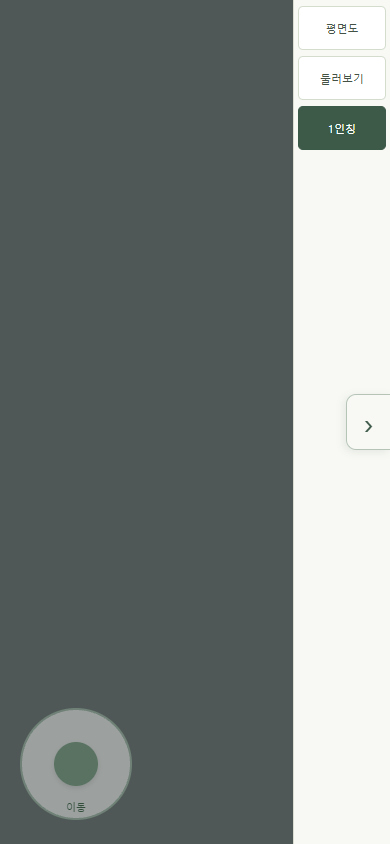
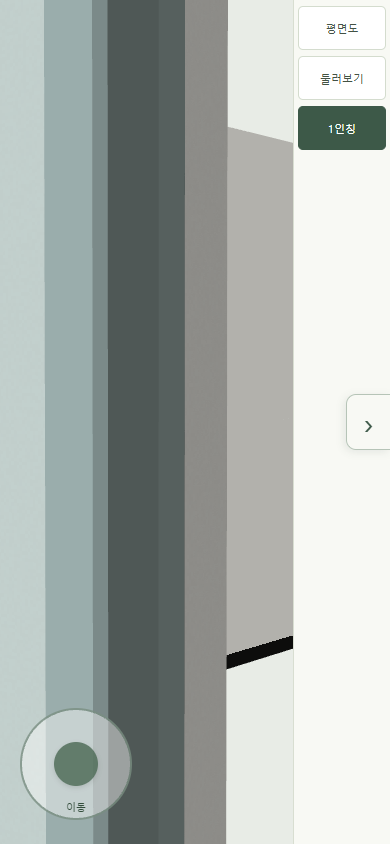
모바일 즉시이동 매커니즘 반영

diff --git a/mobile-controls.js b/mobile-controls.js
@@ -7,7 +7,7 @@ window.MuseumMobileControls=function(canvas,controls,options={}){
  let lastPointer=null;
  // 터치 지원은 패널 버튼용, 실제 입력 방식은 조이스틱용으로 따로 판단한다.
  const touchNavigation=()=>lastPointer==='touch'||(lastPointer===null&&primaryTouch.matches&&noHover.matches);
- let pair=null,stick=null,axes=[0,0],revision=controls.state.revision;
+ let pair=null,stick=null,tap=null,axes=[0,0],revision=controls.state.revision;
  const root=document.createElement('div');root.className='mobile-hud';root.innerHTML=`
   <div class="mobile-stick" role="group" aria-label="이동 조이스틱"><span class="stick-label">이동</span><span class="stick-knob"></span></div>
   `;
@@ -26,7 +26,7 @@ window.MuseumMobileControls=function(canvas,controls,options={}){
  }
  panelToggle.addEventListener('click',()=>{reset();controls.clear();panelClosed=!panelClosed;syncPanel();});
  const release=(target,id)=>{try{if(target.hasPointerCapture(id))target.releasePointerCapture(id);}catch{}};
- function reset(){for(const id of touches.keys())release(canvas,id);touches.clear();pair=null;if(stick!==null)release(joystick,stick);stick=null;axes=[0,0];knob.style.transform='translate(0px,0px)';}
+ function reset(){tap=null;for(const id of touches.keys())release(canvas,id);touches.clear();pair=null;if(stick!==null)release(joystick,stick);stick=null;axes=[0,0];knob.style.transform='translate(0px,0px)';}
  function sync(){document.body.classList.toggle('touch-navigation',touchNavigation());joystick.hidden=controls.state.mode!=='interior'||!touchNavigation();}
  function configure(){reset();document.body.classList.toggle('mobile-input',touchDevice());sync();syncPanel();}
  function usePointer(e){
@@ -42,11 +42,13 @@ window.MuseumMobileControls=function(canvas,controls,options={}){
   if(e.pointerType!=='touch'||touches.size>=2)return;
   e.preventDefault();if(revision!==controls.state.revision){reset();revision=controls.state.revision;}
   touches.set(e.pointerId,{x:e.clientX,y:e.clientY});canvas.setPointerCapture(e.pointerId);pair=snapshot();
+  tap=touches.size===1&&stick===null&&controls.state.mode==='interior'&&!controls.state.transitioning?{id:e.pointerId,x:e.clientX,y:e.clientY,time:performance.now()}:null;
  });
  canvas.addEventListener('pointermove',e=>{
   if(!touches.has(e.pointerId))return;e.preventDefault();
   if(revision!==controls.state.revision){reset();return;}
   const old=touches.get(e.pointerId),dx=e.clientX-old.x,dy=e.clientY-old.y;touches.set(e.pointerId,{x:e.clientX,y:e.clientY});
+  if(tap){if(Math.hypot(e.clientX-tap.x,e.clientY-tap.y)<=5)return;tap=null;}
   const unit=Math.PI/Math.max(1,canvas.clientHeight);
   if(controls.state.mode==='interior'){
    if(touches.size===1)controls.input.rotate(-dx*unit*.5,dy*unit*.5);
@@ -56,12 +58,12 @@ window.MuseumMobileControls=function(canvas,controls,options={}){
   if(touches.size===1){controls.input.rotate(-dx*unit,dy*unit);return;}
   const current=snapshot();if(pair){controls.input.pan(current.x-pair.x,current.y-pair.y);if(current.d>8&&pair.d>8)controls.input.zoom(Math.log(pair.d/current.d));}pair=current;
  });
- const end=e=>{if(!touches.has(e.pointerId))return;touches.delete(e.pointerId);release(canvas,e.pointerId);pair=snapshot();};
+ const end=e=>{if(!touches.has(e.pointerId))return;const travel=e.type==='pointerup'&&tap?.id===e.pointerId&&stick===null&&touches.size===1&&performance.now()-tap.time<=400&&Math.hypot(e.clientX-tap.x,e.clientY-tap.y)<=5;tap=null;touches.delete(e.pointerId);release(canvas,e.pointerId);pair=snapshot();if(travel)options.onGroundTap?.(e.clientX,e.clientY);};
  canvas.addEventListener('pointerup',end);canvas.addEventListener('lostpointercapture',end);canvas.addEventListener('pointercancel',reset);
  function setStick(e){const r=joystick.getBoundingClientRect(),radius=r.width*.30,dx=e.clientX-r.left-r.width/2,dy=e.clientY-r.top-r.height/2,n=Math.hypot(dx,dy),scale=n>radius?radius/n:1,x=dx*scale,y=dy*scale,strength=Math.min(1,n/radius),dead=.12;
   axes=strength<=dead?[0,0]:[-y/radius/strength*(strength-dead)/(1-dead),x/radius/strength*(strength-dead)/(1-dead)];knob.style.transform=`translate(${x}px,${y}px)`;
  }
- joystick.addEventListener('pointerdown',e=>{if(e.pointerType!=='touch'||stick!==null||controls.state.mode!=='interior')return;e.preventDefault();revision=controls.state.revision;stick=e.pointerId;joystick.setPointerCapture(stick);setStick(e);});
+ joystick.addEventListener('pointerdown',e=>{if(e.pointerType!=='touch'||stick!==null||controls.state.mode!=='interior')return;e.preventDefault();tap=null;revision=controls.state.revision;stick=e.pointerId;joystick.setPointerCapture(stick);setStick(e);});
  joystick.addEventListener('pointermove',e=>{if(e.pointerId===stick){e.preventDefault();setStick(e);}});
  const endStick=e=>{if(e.pointerId===stick){const id=stick;stick=null;axes=[0,0];knob.style.transform='translate(0px,0px)';release(joystick,id);}};
  for(const event of ['pointerup','pointercancel','lostpointercapture'])joystick.addEventListener(event,endStick);

diff --git a/shift-navigation.js b/shift-navigation.js
@@ -3,12 +3,12 @@ window.MuseumShiftNavigation=function(canvas,controls,collision,model,onTravel){
  const marker=document.createElement('div');marker.className='ground-cursor';marker.hidden=true;canvas.parentElement.append(marker);
  let drag=null,pointer=null;
  const sub=(a,b)=>a.map((v,i)=>v-b[i]),dot=(a,b)=>a.reduce((s,v,i)=>s+v*b[i],0),cross=(a,b)=>[a[1]*b[2]-a[2]*b[1],a[2]*b[0]-a[0]*b[2],a[0]*b[1]-a[1]*b[0]],norm=a=>{const n=Math.hypot(...a);return a.map(v=>v/n);};
- const active=()=>controls.state.pointMode&&controls.state.mode==='interior'&&!controls.state.transitioning;
+ const active=(touch=false)=>(touch||controls.state.pointMode)&&controls.state.mode==='interior'&&!controls.state.transitioning;
  function inside(p){const poly=MuseumLayout.floor.polygon.map(MuseumGeometry.point);let yes=false;for(let i=0,j=poly.length-1;i<poly.length;j=i++){const a=poly[i],b=poly[j];if((a[1]>p[2])!==(b[1]>p[2])&&p[0]<(b[0]-a[0])*(p[2]-a[1])/(b[1]-a[1])+a[0])yes=!yes;}return yes;}
  function hitBox(o,d,p,max){const c=Math.cos(p.yaw),s=Math.sin(p.yaw),v=sub(o,p.position),origin=[c*v[0]-s*v[2],v[1],s*v[0]+c*v[2]],dir=[c*d[0]-s*d[2],d[1],s*d[0]+c*d[2]];let lo=0,hi=max;for(let i=0;i<3;i++){const h=p.size[i]/2;if(Math.abs(dir[i])<1e-9){if(Math.abs(origin[i])>h)return false;}else{let a=(-h-origin[i])/dir[i],b=(h-origin[i])/dir[i];if(a>b)[a,b]=[b,a];lo=Math.max(lo,a);hi=Math.min(hi,b);if(lo>hi)return false;}}return hi>.001&&lo<max-.002;}
  function hitMesh(o,d,p,max){const m=p.mesh,c=Math.cos(p.yaw),s=Math.sin(p.yaw),world=k=>{const v=Array.from(m.pos.slice(k*3,k*3+3),(v,i)=>v*p.size[i]);return [p.position[0]+c*v[0]+s*v[2],p.position[1]+v[1],p.position[2]-s*v[0]+c*v[2]];};for(let i=0;i<m.idx.length;i+=3){const a=world(m.idx[i]),b=world(m.idx[i+1]),e=world(m.idx[i+2]),u=sub(b,a),v=sub(e,a),h=cross(d,v),det=dot(u,h);if(Math.abs(det)<1e-9)continue;const q=sub(o,a),t=dot(q,h)/det;if(t<0||t>1)continue;const k=cross(q,u),w=dot(d,k)/det;if(w<0||t+w>1)continue;const distance=dot(v,k)/det;if(distance>.001&&distance<max-.002)return true;}return false;}
  let rejection=null;const reject=(reason,part=null)=>{rejection={reason,part};return null;};
- function pick(x,y){rejection=null;if(!active())return reject("inactive");const r=canvas.getBoundingClientRect(),camera=controls.camera(),f=norm(sub(camera.target,camera.eye)),right=norm(cross(f,camera.up)),up=norm(cross(right,f)),tan=Math.tan(controls.state.fov*Math.PI/360),sx=((x-r.left)/r.width*2-1)*tan*r.width/r.height,sy=(1-(y-r.top)/r.height*2)*tan,dir=norm(f.map((v,i)=>v+right[i]*sx+up[i]*sy));if(dir[1]>=-.001)return reject("above-floor");const distance=-camera.eye[1]/dir[1];if(distance>60)return reject("range");const ground=camera.eye.map((v,i)=>v+dir[i]*distance);ground[1]=0;if(!inside(ground))return reject("outside-floor");
+ function pick(x,y,touch=false){rejection=null;if(!active(touch))return reject("inactive");const r=canvas.getBoundingClientRect(),camera=controls.camera(),f=norm(sub(camera.target,camera.eye)),right=norm(cross(f,camera.up)),up=norm(cross(right,f)),tan=Math.tan(controls.state.fov*Math.PI/360),sx=((x-r.left)/r.width*2-1)*tan*r.width/r.height,sy=(1-(y-r.top)/r.height*2)*tan,dir=norm(f.map((v,i)=>v+right[i]*sx+up[i]*sy));if(dir[1]>=-.001)return reject("above-floor");const distance=-camera.eye[1]/dir[1];if(distance>60)return reject("range");const ground=camera.eye.map((v,i)=>v+dir[i]*distance);ground[1]=0;if(!inside(ground))return reject("outside-floor");
   const occluder=model.parts.find(p=>!['glass','displayGlass'].includes(p.group)&&(p.mesh?hitMesh(camera.eye,dir,p,distance):hitBox(camera.eye,dir,p,distance)));if(occluder)return reject("occluded",occluder.id);
   const to=[ground[0],controls.state.minEyeHeight,ground[2]];if(Math.hypot(...sub(to,camera.eye))<.15)return reject("too-close");if(collision.blocked(to))return reject("blocked-destination");return to;
  }
@@ -18,5 +18,6 @@ window.MuseumShiftNavigation=function(canvas,controls,collision,model,onTravel){
  const reset=()=>{const old=drag;drag=null;marker.hidden=true;if(old&&canvas.hasPointerCapture(old.id))canvas.releasePointerCapture(old.id);};
  canvas.addEventListener('pointercancel',reset);canvas.addEventListener('lostpointercapture',()=>{drag=null;});canvas.addEventListener('pointerleave',()=>{pointer=null;});window.addEventListener('blur',reset);
  function update(){if(!active()){reset();return;}const valid=pointer&&!drag?.moved&&pick(pointer.x,pointer.y);marker.hidden=!valid;if(valid){const r=canvas.getBoundingClientRect();marker.style.left=(pointer.x-r.left)+'px';marker.style.top=(pointer.y-r.top)+'px';}}
- return {update,pick,get rejection(){return rejection;}};
+ function tapGround(x,y){const point=pick(x,y,true);if(point)onTravel(point);return !!point;}
+ return {update,pick,tapGround,get rejection(){return rejection;}};
 };

diff --git a/index.html b/index.html
@@ -1,8 +1,8 @@
 <!doctype html>
-<html lang="ko" data-theme="light"><head><meta charset="utf-8"><meta name="viewport" content="width=device-width,initial-scale=1,viewport-fit=cover"><title>부천활박물관 PBL x 컴퓨터 그래픽스 TEAM2</title><link rel="stylesheet" href="style.css?v=20261029-input4"></head>
+<html lang="ko" data-theme="light"><head><meta charset="utf-8"><meta name="viewport" content="width=device-width,initial-scale=1,viewport-fit=cover"><title>부천활박물관 PBL x 컴퓨터 그래픽스 TEAM2</title><link rel="stylesheet" href="style.css?v=20261029-tap5"></head>
 <body><main class="app"><section class="stage"><div class="viewport"><canvas id="cv" tabindex="0" aria-label="박물관 구조 모델. PC: WASD 이동, 방향키 회전, 휠 확대 축소"></canvas><div id="labels"></div><div id="error" role="alert" hidden></div></div></section>
 <aside><nav class="mode-nav" aria-label="관람 방식"><button type="button" data-navigation="plan" aria-pressed="false">평면도</button><button type="button" data-navigation="orbit" class="active" aria-pressed="true">둘러보기</button><button type="button" data-navigation="interior" aria-pressed="false">1인칭</button></nav><section id="exhibit-info" aria-label="전시물 설명"></section></aside></main>
-<script src="demo.js"></script><script src="layout.js"></script><script src="details.js"></script><script src="geometry.js"></script><script src="surfaces.js"></script><script src="collision.js"></script><script src="controls.js"></script><script src="mobile-controls.js?v=20261029-input4"></script><script src="assets/textures/texture-assets.js"></script><script src="materials.js"></script><script src="pathfinding.js"></script><script src="shift-navigation.js"></script><script src="viewer.js"></script></body></html>
+<script src="demo.js"></script><script src="layout.js"></script><script src="details.js"></script><script src="geometry.js"></script><script src="surfaces.js"></script><script src="collision.js"></script><script src="controls.js"></script><script src="mobile-controls.js?v=20261029-tap5"></script><script src="assets/textures/texture-assets.js"></script><script src="materials.js"></script><script src="pathfinding.js"></script><script src="shift-navigation.js?v=20261029-tap5"></script><script src="viewer.js?v=20261029-tap5"></script></body></html>
 
 
 

diff --git a/viewer.js b/viewer.js
@@ -69,7 +69,7 @@
     const center=[(lo[0]+hi[0])/2,.5,(lo[1]+hi[1])/2],radius=Math.hypot(hi[0]-lo[0],hi[1]-lo[1])/2;
     let selected='orbit',lastCamera=null;
     const fields=Object.fromEntries(['walls','frames','names','low','structure','glass','ceiling','details','displays'].map(id=>[id,{checked:!['low','ceiling'].includes(id)}]));
-    const mobileControls=MuseumMobileControls(canvas,controls);
+    const mobileControls=MuseumMobileControls(canvas,controls,{onGroundTap:(x,y)=>waypointControls.tapGround(x,y)});
     const waypointControls=MuseumShiftNavigation(canvas,controls,collision,model,destination=>{
       const start=lastCamera||controls.camera(),pose={yaw:controls.state.yaw,pitch:controls.state.pitch,fov:controls.state.fov};
       const path=MuseumPathfinding.find(controls.camera().eye,destination,collision);if(!path)return;

diff --git a/README.md b/README.md
@@ -39,6 +39,7 @@
 ## 모바일 조작
 
 - 둘러보기: 한 손가락 회전, 두 손가락 이동, 핀치 확대·축소.
+- 1인칭 바닥 짧게 탭: Shift 없이 PC와 같은 바닥 선택·A* 우회 경로로 이동합니다. 드래그·핀치·조이스틱 조작은 탭 이동으로 취급하지 않습니다.
 - 1인칭: 왼쪽 조이스틱으로 시선 기준 수평 이동, 화면 드래그로 시선 회전(±45°).
   이동·회전을 동시에 수행하며 조이스틱 변위에 따라 속도를 조절합니다.
 - 두 손가락 핀치로 외부 거리를, 내부에서는 위치·시선을 유지한 채 FOV를 조절합니다. 별도 ± 버튼과 커서 잠금은 사용하지 않습니다.
